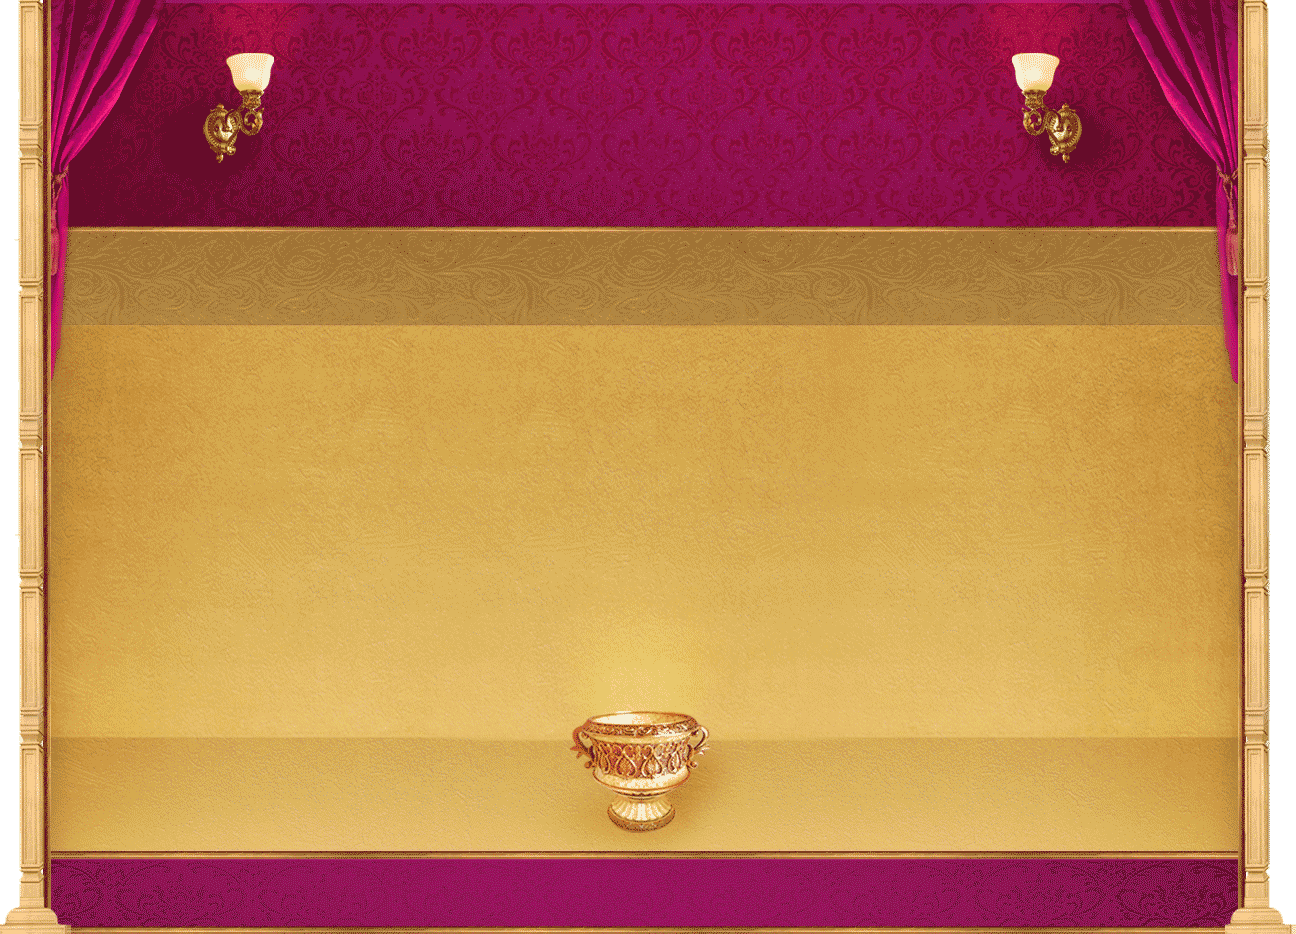
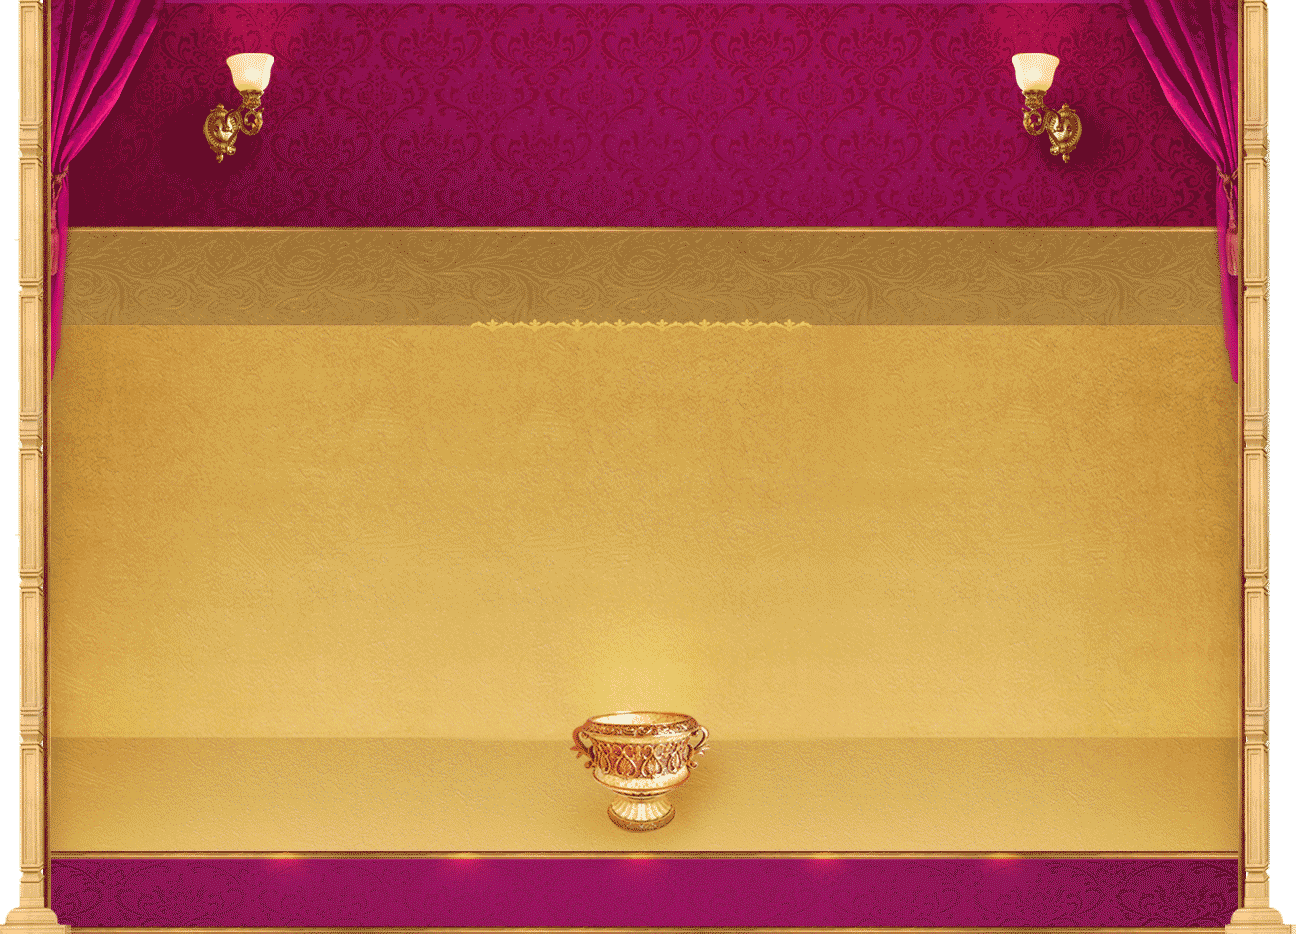
Good saturday progress

diff --git a/index.html b/index.html
@@ -5,12 +5,52 @@
 	<link rel="stylesheet" type="text/css" href="css/reset.css">
 	<link rel="stylesheet" type="text/css" href="css/mystyle.css">
 	<meta http-equiv="Content-Type" content="text/html; charset=utf-8">
+	<script src="http://code.jquery.com/jquery-latest.min.js" type="text/javascript"></script>
+	<script type="text/javascript">
+	$(document).ready(function(){
+		$('.content-nav div.range').click(function(){
+			$('.content .active').fadeOut(function(){
+				$('.content .active').addClass('inactive');
+				$('.content .active').removeClass('active');
+				$('.content .new-range').fadeIn(function(){
+					$('.content .new-range').addClass('active');
+					$('.content .new-range').removeClass('inactive');
+				});
+			});
+		});
+
+		$('.content-nav div.cooking').click(function(){
+			$('.content .active').fadeOut(function(){
+				$('.content .active').addClass('inactive');
+				$('.content .active').removeClass('active');
+				$('.content .cooking-tips').fadeIn(function(){
+					$('.content .cooking-tips').addClass('active');
+					$('.content .cooking-tips').removeClass('inactive');
+				});
+			});
+		});
+
+		$('.content-nav div.health').click(function(){
+			$('.content .active').fadeOut(function(){
+				$('.content .active').addClass('inactive');
+				$('.content .active').removeClass('active');
+				$('.content .health-benefits').fadeIn(function(){
+					$('.content .health-benefits').addClass('active');
+					$('.content .health-benefits').removeClass('inactive');
+				});
+			});
+		});
+	});
+	</script>
 </head>
 <body>
 	<div class="container">
 		<div class="logo"><a href="index.html"><img src="assets/logo.png" alt="Surbhi Logo"></a></div>
 		<div class="content">
-			<div class="home">
+			<div class="slider">
+				<img src="assets/1.jpg" alt="">
+			</div>
+			<div class="new-range active">
 				<h1>New Range</h1>
 				<p>
 					We always strive on coming up with what our patrons enjoy and seasonal <br>
@@ -31,6 +71,57 @@
 					and crusted sesame seeds to add the crunch
 				</p>
 			</div>
+			<div class="cooking-tips inactive">
+				<h1>Cooking Tips</h1>
+				<p>
+					We want you to relish our snacks and cherish every bite of our sweets that gives you a lingering taste 
+					and a lasting memory of that moment. Hence we have tried to bring to you a simple but savored
+					suggestions and recipe to complement our dishes.
+				</p>
+				<div style="margin-left: 240px; margin-right: 20px; width: 360px;">
+					<h2>A nice and refreshing cup of Indian Tea</h2>
+					<p>
+						In a pot add 100ml water along with 20gms of sugar, 3gms <br> of tea powder. Place the pot on the burner & bring it to a <br> good boil. <br><br>
+ 
+						Once the water starts to boil, add in 150ml of full fat milk <br> (preferably buffalo milk). Bring it to a rolling boil. <br><br>
+
+						Once the milk come to a boil, add a pinch of cardamom <br> powder to the tea. <br><br>
+
+						Simmer for 30 seconds and strain and enjoy your cup of a <br> traditional Indian tea!
+
+					</p>
+				</div>
+				<div>
+					<h2>To enjoy masala milk cold or hot</h2>
+					<p>
+						Begin by lightly crushing 5 almonds, 3 cashews, 6 pistachio; add a <br> pinch of saffron, a pinch of cardamompowder and a dash of grated <br> nutmeg. Keep aside. <br><br>
+
+						In a pot add a glass of milk along with 1 1/2 teaspoon sugar and <br> place it on a burner and heat. Once the milk is hot enough, take it off <br> the burner and add the nut mix. <br><br>
+
+						Give it a little swirl and allow it to cool. Once the milk has cooled, <br> refrigerate it overnight. <br><br>
+
+						Blend the milk before serving. Garnish with some almond flake, <br> pistachio flakes and a few strands of saffron. <br>Enjoy it chilled on a summer afternoon or heat it warm for a cozy winter night!
+					</p>
+				</div>
+			</div>
+			<div class="health-benefits inactive">
+				<h1>Health Benefits</h1>
+				<p>
+					Mithais’ are no less than a health tonic if enjoyed in right proportions.. Ghee, which ayurveda describes as
+					life-giving nectar, is considered the best lubricant and digestive regulator. It strengthens sense organs, improves memory, intelligence, and vitality. It detoxifies and rejuvenates the system. Wheat or semolina, another key 
+					ingredient in mithai, has the capacity to strengthen all dhatu (seven levels of tissue),
+					improve complexion, and pacify vata and pitta. - timesofindia.com <br><br>
+
+
+					Research published in the British Journal of Nutrition (Kelly JH, Sabate J.) shows consuming nuts at least  
+					4 times a week showed a 37% reduced risk of coronary heart disease. And suggests to lower your risk of 
+					cardiovascular and coronary heart disease, enjoy a handful of cashews or other nuts at least 4 times a week. 
+					Bengali mithais’ like rasgulla, rasmalai, raj bhog or malai sandwich; which is really cottage cheese but just handled 
+					differently has a lot of benefits. To mention a few, it is a good supply of protein, B complex vitamins and healthy fats, and a reduced risk of breast cancer. It is a great food for Pregnant Women, Strengthens Bones, Prevents Strokes and Controls Anxiety, Improves Digestion and many more benefits. timesofindia.com- bbc.com
+				</p>
+				<h2>So for all you folks with the sweet tooth can now have some guilt free delectable <br>
+				moments with our mithais’.</h2>
+			</div>
 			<div class="content-nav">
 				<div class="range">
 					<p>New Range</p>
@@ -49,11 +140,11 @@
 		<div class="clearfix"></div>
 		<div class="main-nav">
 			<ul>
-				<li><a class="about" href=""></a></li>
-				<li><a  class="food" href=""></a></li>
-				<li><a class="gift" href=""></a></li>
-				<li><a class="catering" href=""></a></li>
-				<li><a class="find" href=""></a></li>
+				<li><a class="about" href="about.html"></a></li>
+				<li><a  class="food" href="food.html"></a></li>
+				<li><a class="gift" href="gift.html"></a></li>
+				<li><a class="catering" href="catering.html"></a></li>
+				<li><a class="find" href="findus.html"></a></li>
 			</ul>
 		</div>
 		<div class="footer">

diff --git a/findus.html b/findus.html
@@ -11,32 +11,77 @@
 		<div class="logo"><a href="index.html"><img src="assets/logo.png" alt="Surbhi Logo"></a></div>
 		<div class="content">
 			<div class="findus">
-				<h1>Catering</h1>
-				<p>
-					Here at Surbhi we use the finest & freshest ingredients to ensure a perfectmeal for you and your guests. <br>
-					We are a dedicated team constantly in the process of bettering our food, service & experience. Our menu has been 
-					created and hand picked to cater to various taste buds & preferences, ranging from communal favorites <br>
-					to seasonal picks and festive choices. 
-					<br><br>
-					Surbhi has been a favorite for many of our guests to order a snack box with an assortment of snacks, farsaans and sweets 
-					for various instances such as a public event, distance travelling, a group picnic and sometimes simply because you want to go easy on your belly with snacks instead of an extravagant meal. 
-					<br><br>
-					Surbhi has been setting up chat counters offering exciting selections for various occasions to suit birthdays, anniversaries, kitty parties, exhibitions, brcorporate lunches, society assemblies, small gatherings, festive celebrations etc. 
-					<br><br>
-					We at Surbhi, are always happy to design a unique meal experience for your events, by offering you live chaat counters 
-					with exciting selections and snack bars from our various assortment of snacks and a dessert <br>
-					corner with a pleasing range to pick from.
-				</p>
+				<h1>Find Us</h1>
+				<div style="margin-left: 150px;">
+					<h2>Flagship Store</h2>
+					<address>
+						Opposite Goregaon West <br>Railway Station, Mumbai
+					</address>
+					<h3>Phone</h3>
+					<p class="number">28711 852 / 2877 9799</p>
+					<h3>Serves</h3>
+					<p>
+						Snacks  <br>
+						Namkeens  <br>
+						Sweets  <br>
+						Beverages
+					</p>
+				</div>
+				<div>
+					<h2>Express Store</h2>
+					<address>
+						4, Amrut Niwas, Aarey <br> Fatak, Gram Panchayat <br> Road Goregaon West, <br> Mumbai
+					</address>
+					<h3>Phone</h3>
+					<p class="number">9323 726 201</p>
+					<h3>Serves</h3>
+					<p>
+						Selected  <br>
+						Snacks 
+					</p>
+				</div>
+				<div>
+					<h2>Express Store</h2>
+					<address>
+						69, Hegde Chawl, M.G. <br> Road, Borivili East, <br> Mumbai
+					</address>
+					<h3>Phone</h3>
+					<p class="number">9320 003 014</p>
+					<h3>Serves</h3>
+					<p>
+						Selected  <br>
+						Snacks  <br>
+						Beverages <br>
+						Selected Sweets
+					</p>
+				</div>
+				<div>
+					<h2>Express Store</h2>
+					<address>
+						Thakkar Building, <br> Masjid Galli, Andheri <br> West, Mumbai
+					</address>
+					<h3>Phone</h3>
+					<p class="number">9323 977 800</p>
+					<h3>Serves</h3>
+					<p>
+						Selected  <br>
+						Snacks  <br>
+						Beverages <br>
+						Selected Sweets
+					</p>
+				</div>
 			</div>
+			<div class="clearfix"></div>
+			<p class="offer">We offer free home delivery on orders of Rs.200 and above.</p>
 		</div>
 		<div class="clearfix"></div>
 		<div class="main-nav">
 			<ul>
-				<li><a class="about" href=""></a></li>
-				<li><a  class="food" href=""></a></li>
-				<li><a class="gift" href=""></a></li>
-				<li><a class="catering" href=""></a></li>
-				<li><a class="find" href=""></a></li>
+				<li><a class="about" href="about.html"></a></li>
+				<li><a  class="food" href="food.html"></a></li>
+				<li><a class="gift" href="gift.html"></a></li>
+				<li><a class="catering" href="catering.html"></a></li>
+				<li><a class="find" href="findus.html"></a></li>
 			</ul>
 		</div>
 		<div class="footer">

diff --git a/css/mystyle.css b/css/mystyle.css
@@ -107,6 +107,21 @@ h1{
 	top: -10px;
 }
 
+.findus h1{
+	position: relative;
+	top: -10px;
+}
+
+.gift h1{
+	position: relative;
+	top: -10px;
+}
+
+.food h1{
+	position: relative;
+	top: -10px;
+}
+
 .content p{
 	margin-top: 12px;
 	font-family: 'TimelessRegular';
@@ -291,4 +306,109 @@ h1{
 	width: 900px;
 	margin: 0 auto;
 	line-height: 20px;
+}
+
+.content .findus div{
+	width: 260px;
+	float: left;
+	text-align: left;
+	font-family: 'TimelessRegular';
+	margin-left: 14px;
+}
+
+.findus h2{
+	color: #5b4219;
+	font-size: 21px;
+	margin-bottom: 26px;
+}
+
+.findus address{
+	font-family: 'TimelessRegular';
+	font-size: 17px;
+	line-height: 20px;
+	color: #533c16;
+	margin-bottom: 24px;
+}
+
+.findus h3{
+	font-family: 'TimelessRegular';
+	margin-bottom: 24px;
+	color: #533c16;
+	font-size: 17px;
+}
+
+.findus p.number{
+	font-family: 'TimelessBold';
+	margin-bottom: 24px;
+}
+
+.findus p{
+	line-height: 20px;
+}
+
+p.offer{
+	text-align: center;
+	font-size: 19px;
+	margin-top: 80px;
+}
+
+.new-range, .cooking-tips, .health-benefits{
+	height: 338px;
+}
+
+.inactive{
+	display: none;
+}
+
+.active{
+	display: block;
+}
+
+.cooking-tips{
+	text-align: left;
+}
+
+.cooking-tips>p{
+	text-align: center;
+	font-size: 15px;
+	width: 900px;
+	margin: 0 auto;
+	margin-top: -16px;
+	margin-bottom: 8px;
+}
+
+.cooking-tips div{
+	float: left;
+	width: 550px;
+}
+
+.cooking-tips div h2{
+	font-size: 20px;
+}
+
+.cooking-tips div p{
+	font-size: 14px;
+	text-align: left;
+}
+
+.health-benefits p{
+	line-height: 20px;
+	font-size: 16px;
+	width: 920px;
+	margin: 0 auto;
+	margin-top: -8px;
+}
+
+.health-benefits h2{
+	margin-top: 24px;
+}
+
+.main-home{
+	display: none;
+}
+
+.slider{
+	position: absolute;
+	left: 242px;
+	top: 262px;
 }

diff --git a/about.html b/about.html
@@ -35,11 +35,11 @@
 		<div class="clearfix"></div>
 		<div class="main-nav">
 			<ul>
-				<li><a class="about" href=""></a></li>
-				<li><a  class="food" href=""></a></li>
-				<li><a class="gift" href=""></a></li>
-				<li><a class="catering" href=""></a></li>
-				<li><a class="find" href=""></a></li>
+				<li><a class="about" href="about.html"></a></li>
+				<li><a  class="food" href="food.html"></a></li>
+				<li><a class="gift" href="gift.html"></a></li>
+				<li><a class="catering" href="catering.html"></a></li>
+				<li><a class="find" href="findus.html"></a></li>
 			</ul>
 		</div>
 		<div class="footer">

diff --git a/catering.html b/catering.html
@@ -32,11 +32,11 @@
 		<div class="clearfix"></div>
 		<div class="main-nav">
 			<ul>
-				<li><a class="about" href=""></a></li>
-				<li><a  class="food" href=""></a></li>
-				<li><a class="gift" href=""></a></li>
-				<li><a class="catering" href=""></a></li>
-				<li><a class="find" href=""></a></li>
+				<li><a class="about" href="about.html"></a></li>
+				<li><a  class="food" href="food.html"></a></li>
+				<li><a class="gift" href="gift.html"></a></li>
+				<li><a class="catering" href="catering.html"></a></li>
+				<li><a class="find" href="findus.html"></a></li>
 			</ul>
 		</div>
 		<div class="footer">
